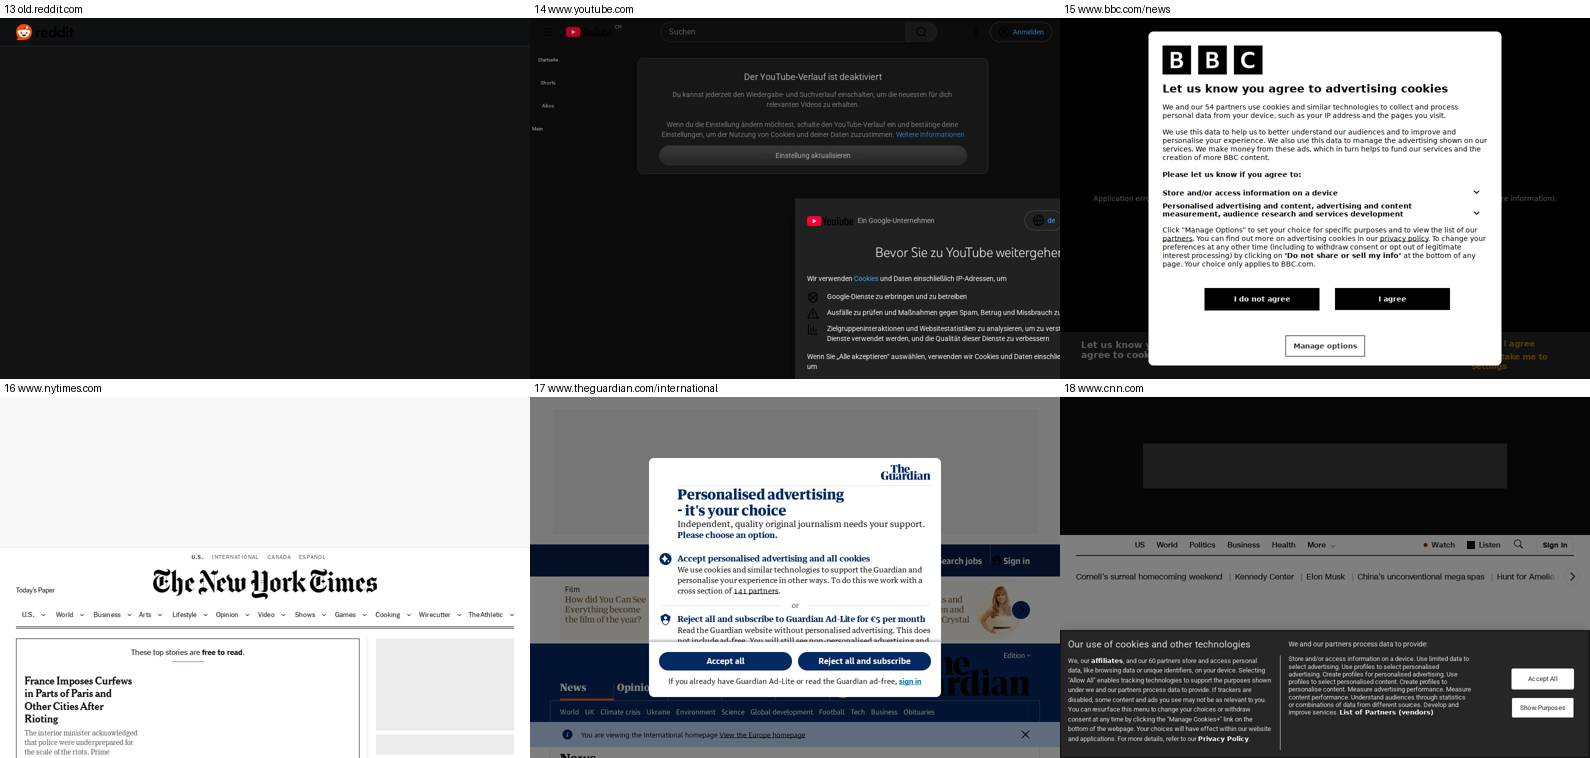
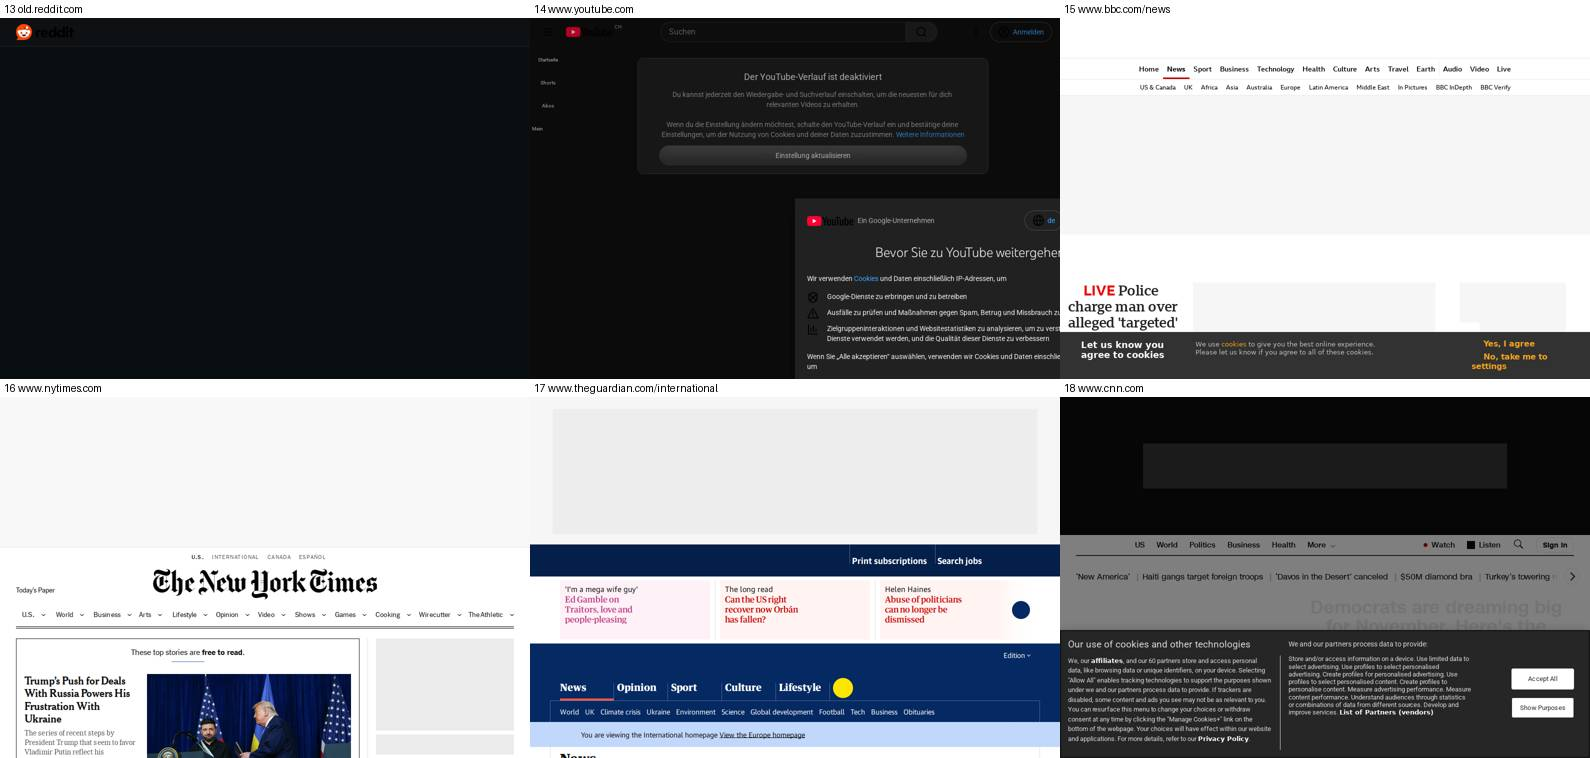
docs: second Servo compatibility run (38 of 50 sites work)
With webcrypto and the three experimental features on, 38 sites work
(was 33), 7 partly, 5 broken (was 11); no crashes. Startpage and Reddit
regressed, but the build from before the change shows them blank too, so
the sites changed between runs. Screenshots now show run 2.

Changed region(s): [[0.3082, 0.0, 1.0, 1.0], [0.0, 0.8799, 0.2465, 1.0], [0.8629, 0.7586, 0.9553, 0.7889]]

diff --git a/docs/servo-compat.md b/docs/servo-compat.md
@@ -1,15 +1,21 @@
-# Servo compatibility run
+# Servo compatibility runs
 
-First compatibility run of the experimental Servo web view
+Compatibility runs of the experimental Servo web view
 ([issue #65](https://github.com/freewright-dev/BrowseCraft/issues/65)): 50
 websites opened in BrowseCraft with Servo, looking at what the first screen
-shows. It measures where the slice stands; it is not a pass/fail gate by
-itself.
+shows. They measure where the slice stands; they are not a pass/fail gate by
+themselves.
+
+- **Run 1** (2026-10-19) used Servo's default build features and preferences.
+- **Run 2** (2026-10-20) added the fixes found by analysing run 1:
+  - Servo's `webcrypto` cargo feature, for `crypto.getRandomValues()`;
+  - the experimental preferences for `IntersectionObserver`,
+    `document.adoptedStyleSheets` and `Element.animate()`;
+  - `crypto.subtle` kept off (see [dependencies.md](dependencies.md)).
 
 ## Method
 
-- **Build:** BrowseCraft debug build with `--features servo` (Servo 0.6.0 LTS),
-  2026-10-19.
+- **Build:** BrowseCraft debug build with `--features servo` (Servo 0.6.0 LTS).
 - **Machine:** WSL2 Ubuntu 24.04 (WSLg display, Mesa software rendering),
   16 cores, 24 GB of memory.
 - **Window:** 1060×722 page area, dark theme.
@@ -24,123 +30,138 @@ itself.
     built without GStreamer, so video can't play.
   - Logged-in pages.
   - Release-build timing.
+- **Sites change from day to day.** A difference between runs can come from
+  the site rather than the browser (see "Changes between runs" below).
 - **Missing glyphs:** WSL has no fonts for some scripts (CJK, Devanagari), so
   a few lines show boxes. That is the test machine, not Servo.
 
 Rerun with [tools/servo-compat/run.sh](../tools/servo-compat/run.sh); the site
 list is [tools/servo-compat/sites.txt](../tools/servo-compat/sites.txt).
+`RUST_LOG=error` adds Servo's own errors, including uncaught page exceptions,
+to each site's log.
 
 ## Summary
 
-| | Sites |
-|---|---|
-| Works | 33 |
-| Partial | 6 |
-| Broken | 11 |
-| Crashed or hung the browser | 0 |
-| Reached "load complete" within 30 s | 47 (median 1.5 s, 90 % within 10 s, slowest 20.9 s) |
+| | Run 1 | Run 2 |
+|---|---|---|
+| Works | 33 | 38 |
+| Partial | 6 | 7 |
+| Broken | 11 | 5 |
+| Crashed or hung the browser | 0 | 0 |
+| Reached "load complete" within 30 s | 47 | 44 |
+| Median load time | 1.5 s | 1.3 s |
+| 90 % loaded within | 10 s | 4.8 s |
+| Slowest | 20.9 s | 11.5 s |
+
+Load time is when Servo reported the page complete, counted from Servo's
+start (debug build).
 
 Patterns:
 
-- **Cookie banners and consent dialogs work.** Those from Google, YouTube,
-  BBC, Guardian, Reuters, CNN, Instagram, X and Dropbox all render.
+- **Cookie banners and consent dialogs work** on almost every site that shows
+  one.
 - **Icons often show as solid squares.** This affects small icons on
   Wikipedia, SRF, MDN and crates.io, which suggests icons drawn with CSS
   masks or SVG are not supported yet.
-- **Most failures are large script-heavy apps.** GitHub repository pages,
-  BBC, Figma, Netflix, Spotify and Amazon report a client-side error or stay
-  blank.
-- **Bot checks block some sites.** Stack Overflow stays stuck at a Cloudflare
-  check. eBay may be refusing Servo's user agent rather than a missing
-  feature.
+- **Most of what still fails** is a site turning Servo away (eBay), a Servo
+  bug (PayPal), or a page that comes out blank without any script error
+  (Startpage, Reddit, Microsoft).
 
-## Why sites fail
+## Why sites failed in run 1
 
 The broken and partial sites were opened again with
 `BROWSECRAFT_SERVO_TRACE=1 RUST_LOG=error`. That logs page console errors,
 uncaught exceptions and Servo's own errors. The pages themselves download and
-parse within 0.4–3 s, so networking and HTML parsing are not the problem. What
-fails is the page's JavaScript, mostly on a web feature that is missing in
-this build.
+parse within 0.4–3 s, so networking and HTML parsing were not the problem.
+What failed was the page's JavaScript, mostly on a web feature that was
+missing in that build.
 
-| Cause | Sites | Error seen | Fix |
+| Cause | Sites | Error seen | Status in run 2 |
 |---|---|---|---|
-| `crypto.getRandomValues()` missing | BBC, Amazon, Booking, Spotify, IMDb, Figma, Microsoft | `crypto.getRandomValues() not supported` / `crypto is not defined` | Ours: Servo has Web Crypto behind its `webcrypto` cargo feature, which is not among its defaults and is not enabled here |
-| `IntersectionObserver` missing | Netflix, GitHub repository page | `IntersectionObserver is not defined` | Ours: Servo has it behind the experimental preference `dom_intersection_observer_enabled` (off by default) |
-| `document.adoptedStyleSheets` missing | archive.org, GitHub repository page | `e.adoptedStyleSheets is undefined` | Ours: preference `dom_adoptedstylesheet_enabled` (off by default) |
-| `Element.animate()` missing | YouTube | `v.hostElement.animate is not a function` | Ours: preference `dom_web_animations_enabled` (off by default) |
-| JavaScript error during start-up | GitHub repository page | `can't access lexical declaration 'p' before initialization` | Unclear; recheck once the features above are on, otherwise report upstream |
-| Servo panics | PayPal | `internal error: entered unreachable code: Removed @font-face that was not previously present` (`servo-script-0.6.0/dom/css/fontfaceset.rs:184`) | Upstream bug. The browser keeps running, but the page never finishes and `notify_crashed` is not called |
-| The site turns away unfamiliar browsers | Stack Overflow (Cloudflare bot check), old.reddit (redirect to `/login/?reason=lor2`), eBay (error page) | none | Not a rendering problem; possibly helped by a different user-agent string |
-| Layout or drawing differences, no script error | rust-lang.org, nodejs.org | none | Upstream rendering gaps |
+| `crypto.getRandomValues()` missing | BBC, Amazon, Booking, Spotify, IMDb, Figma, Microsoft | `crypto.getRandomValues() not supported` / `crypto is not defined` | Fixed by Servo's `webcrypto` feature. BBC, Amazon, Booking and IMDb work; Spotify and Figma are partial. IMDb still logs `Q.subtle is undefined`, because `crypto.subtle` stays off |
+| `IntersectionObserver` missing | Netflix, GitHub repository page | `IntersectionObserver is not defined` | Fixed by `dom_intersection_observer_enabled`; both work |
+| `document.adoptedStyleSheets` missing | archive.org, GitHub repository page | `e.adoptedStyleSheets is undefined` | Fixed by `dom_adoptedstylesheet_enabled`; archive.org works |
+| `Element.animate()` missing | YouTube | `v.hostElement.animate is not a function` | Error gone with `dom_web_animations_enabled`; YouTube still shows only its consent page |
+| JavaScript error during start-up | GitHub repository page | `can't access lexical declaration 'p' before initialization` | Gone; the page works |
+| Servo panics | PayPal | `internal error: entered unreachable code: Removed @font-face that was not previously present` (`servo-script-0.6.0/dom/css/fontfaceset.rs:184`) | Still broken; an upstream bug. The browser keeps running, but the page never finishes and `notify_crashed` is not called |
+| The site turns away unfamiliar browsers | Stack Overflow (Cloudflare bot check), old.reddit (redirect to `/login/?reason=lor2`), eBay (error page) | none | Stack Overflow passes the check in run 2 and works; old.reddit and eBay are unchanged |
+| Layout or drawing differences, no script error | rust-lang.org, nodejs.org | none | Unchanged; upstream rendering gaps |
 
-Next step: build with Servo's `webcrypto` feature and enable the three
-preferences above (Servo's own browser, servoshell, turns these on with its
-experimental-features switch), then repeat the run for the sites listed here.
-Experimental features are less tested; they would only apply to this opt-in
-Linux build.
+## Changes between runs
+
+Four sites did worse in run 2: Startpage and Reddit (blank, dark), Notion
+(partial) and Microsoft (blank). None of them logged a script error.
+
+For Startpage and Reddit, each new setting was turned off on its own and
+tested again, and the site still came out blank every time:
+
+- Web Animations;
+- `IntersectionObserver`;
+- `adoptedStyleSheets`;
+- `crypto.subtle`, tried switched on.
+
+The build from before any of these changes (commit `2b6cdb6`) now shows them
+blank too, so the change comes from the sites between the two runs, not from
+the new settings. Notion and Microsoft have not been isolated yet.
 
 ## Results
 
-Load time is when Servo reported the page complete, counted from Servo's
-start (debug build). "–" means not within 30 s.
-
-| # | Site | Result | Load (s) | Notes |
-|---|---|---|---|---|
-| 1 | example.com | Works | 0.66 | |
-| 2 | www.wikipedia.org | Works | 0.91 | |
-| 3 | en.wikipedia.org/wiki/Rust_(programming_language) | Works | 4.99 | Small icons render as squares |
-| 4 | github.com | Works | – | Logo and hero artwork missing; never reported complete |
-| 5 | github.com/servo/servo | Broken | 2.25 | "Unable to load page" |
-| 6 | servo.org | Works | 0.75 | |
-| 7 | duckduckgo.com | Works | 0.90 | |
-| 8 | www.startpage.com | Works | 2.63 | |
-| 9 | www.google.com | Works | 1.19 | Consent page |
-| 10 | www.bing.com | Works | 1.93 | |
-| 11 | news.ycombinator.com | Works | 1.28 | |
-| 12 | www.reddit.com | Works | 1.94 | |
-| 13 | old.reddit.com | Partial | 0.80 | Header only, body blank |
-| 14 | www.youtube.com | Partial | 9.98 | Consent dialog and page frame; no video grid |
-| 15 | www.bbc.com/news | Broken | 1.50 | Consent dialog over "Application error: a client-side exception" |
-| 16 | www.nytimes.com | Works | 10.92 | Empty ad slot at the top |
-| 17 | www.theguardian.com/international | Works | 5.89 | Consent dialog |
-| 18 | www.cnn.com | Works | 3.75 | Consent dialog |
-| 19 | www.reuters.com | Works | 3.00 | Consent dialog |
-| 20 | www.srf.ch | Works | 2.28 | Small icons render as squares |
-| 21 | www.admin.ch | Works | 3.43 | |
-| 22 | www.amazon.com | Broken | 0.43 | Blank page |
-| 23 | www.ebay.com | Broken | 0.78 | eBay error page |
-| 24 | www.booking.com | Broken | 20.89 | Blank page |
-| 25 | stackoverflow.com/questions | Broken | 11.20 | Stuck at Cloudflare's bot check |
-| 26 | developer.mozilla.org/en-US/ | Works | 0.75 | Small icons render as squares |
-| 27 | docs.rs | Works | 0.94 | |
-| 28 | crates.io | Works | 0.79 | Small icons render as squares |
-| 29 | www.rust-lang.org | Partial | 0.80 | Hero text barely visible |
-| 30 | doc.rust-lang.org/book/ | Works | 0.76 | |
-| 31 | www.python.org | Works | 0.54 | |
-| 32 | nodejs.org | Partial | 1.00 | Heading drawn on a white box |
-| 33 | www.w3.org | Works | 0.44 | |
-| 34 | www.mozilla.org | Works | 1.36 | Logo artwork glitch |
-| 35 | www.apple.com | Works | 1.11 | |
-| 36 | www.microsoft.com | Partial | 14.66 | Header and chat widget only, body blank |
-| 37 | www.cloudflare.com | Works | 4.20 | |
-| 38 | x.com | Works | 1.04 | Login page and consent banner |
-| 39 | www.instagram.com | Works | 6.11 | Consent dialog |
-| 40 | www.linkedin.com | Works | 1.95 | |
-| 41 | www.twitch.tv | Works | 11.57 | Player area black (no media support in this build) |
-| 42 | www.netflix.com | Broken | 2.96 | Netflix error page (NSES-UHX) |
-| 43 | open.spotify.com | Broken | 1.47 | "Something went wrong" |
-| 44 | www.openstreetmap.org | Works | 0.87 | Map tiles load |
-| 45 | archive.org | Partial | 3.54 | Donation banner and header, body blank |
-| 46 | www.imdb.com | Broken | 0.61 | Blank page |
-| 47 | www.paypal.com | Broken | – | Blank page; never reported complete |
-| 48 | www.dropbox.com | Works | 3.49 | Consent banner |
-| 49 | www.notion.so | Works | – | Some placeholders; never reported complete |
-| 50 | www.figma.com | Broken | 1.60 | "Application error: a client-side exception" |
+| # | Site | Run 1 | Run 2 | Load (s), run 2 | Notes (run 2) |
+|---|---|---|---|---|---|
+| 1 | example.com | Works | Works | 0.58 | |
+| 2 | www.wikipedia.org | Works | Works | 0.88 | |
+| 3 | en.wikipedia.org/wiki/Rust_(programming_language) | Works | Works | 4.64 | Small icons render as squares |
+| 4 | github.com | Works | Works | – | Never reported complete |
+| 5 | github.com/servo/servo | Broken | **Works** | 2.41 | |
+| 6 | servo.org | Works | Works | 0.81 | |
+| 7 | duckduckgo.com | Works | Works | 0.77 | |
+| 8 | www.startpage.com | Works | **Broken** | – | Blank; also blank with the run 1 build (site change) |
+| 9 | www.google.com | Works | Works | 1.30 | Consent page |
+| 10 | www.bing.com | Works | Works | 1.86 | |
+| 11 | news.ycombinator.com | Works | Works | 1.29 | |
+| 12 | www.reddit.com | Works | **Broken** | 0.30 | Blank; also blank with the run 1 build (site change) |
+| 13 | old.reddit.com | Partial | Partial | 0.98 | Redirected to a login page |
+| 14 | www.youtube.com | Partial | Partial | 5.86 | Consent dialog and page frame only |
+| 15 | www.bbc.com/news | Broken | **Works** | 1.49 | Some image slots still empty |
+| 16 | www.nytimes.com | Works | Works | 9.48 | Empty ad slot at the top |
+| 17 | www.theguardian.com/international | Works | Works | – | Never reported complete |
+| 18 | www.cnn.com | Works | Works | 4.45 | Consent dialog |
+| 19 | www.reuters.com | Works | Works | 2.41 | Consent dialog |
+| 20 | www.srf.ch | Works | Works | 3.76 | Small icons render as squares |
+| 21 | www.admin.ch | Works | Works | 4.65 | |
+| 22 | www.amazon.com | Broken | **Works** | 2.73 | |
+| 23 | www.ebay.com | Broken | Broken | 0.50 | eBay error page |
+| 24 | www.booking.com | Broken | **Works** | 3.63 | Sign-in prompt over the page |
+| 25 | stackoverflow.com/questions | Broken | **Works** | 4.90 | Passes the Cloudflare check |
+| 26 | developer.mozilla.org/en-US/ | Works | Works | 0.71 | Small icons render as squares |
+| 27 | docs.rs | Works | Works | 0.75 | |
+| 28 | crates.io | Works | Works | 1.11 | Small icons render as squares |
+| 29 | www.rust-lang.org | Partial | Partial | 0.73 | Hero text barely visible |
+| 30 | doc.rust-lang.org/book/ | Works | Works | 0.43 | |
+| 31 | www.python.org | Works | Works | 0.49 | |
+| 32 | nodejs.org | Partial | Partial | 0.94 | Heading drawn on a white box |
+| 33 | www.w3.org | Works | Works | 0.36 | |
+| 34 | www.mozilla.org | Works | Works | 1.38 | Logo artwork glitch |
+| 35 | www.apple.com | Works | Works | 0.84 | |
+| 36 | www.microsoft.com | Partial | **Broken** | 0.65 | Blank; its consent script returns 403 |
+| 37 | www.cloudflare.com | Works | Works | – | Never reported complete |
+| 38 | x.com | Works | Works | 2.35 | Login page and consent banner |
+| 39 | www.instagram.com | Works | Works | 6.09 | Consent dialog |
+| 40 | www.linkedin.com | Works | Works | 0.95 | |
+| 41 | www.twitch.tv | Works | Works | 11.48 | Player area black (no media support in this build) |
+| 42 | www.netflix.com | Broken | **Works** | 2.48 | Consent banner and sign-up page |
+| 43 | open.spotify.com | Broken | **Partial** | 1.31 | App frame with placeholders |
+| 44 | www.openstreetmap.org | Works | Works | 0.88 | Map tiles load |
+| 45 | archive.org | Partial | **Works** | 1.84 | |
+| 46 | www.imdb.com | Broken | **Works** | 4.83 | |
+| 47 | www.paypal.com | Broken | Broken | – | Blank; Servo panics (upstream bug) |
+| 48 | www.dropbox.com | Works | Works | 3.82 | |
+| 49 | www.notion.so | Works | **Partial** | – | Hero section missing; not yet isolated |
+| 50 | www.figma.com | Broken | **Partial** | 2.19 | Cookie dialog, body blank |
 
 ## Screenshots
 
-The first screen of each site, reduced to half size:
+The first screen of each site in run 2, reduced to half size:
 
 ![Sites 1–6](servo-compat/sites-01-06.jpg)
 ![Sites 7–12](servo-compat/sites-07-12.jpg)

diff --git a/README.md b/README.md
@@ -49,9 +49,9 @@ rather than build a second general-purpose DOM, layout and JavaScript stack.
 engine (see [docs/development.md](docs/development.md#servo-on-linux-experimental)).
 It is off by default, not part of release builds, and not yet secure for
 arbitrary browsing: Servo runs in the browser process, and the password
-manager's page script and element hiding are not wired up yet. In the first
-[compatibility run](docs/servo-compat.md), 33 of 50 popular sites rendered
-properly, 6 partly and 11 not, with no crashes.
+manager's page script and element hiding are not wired up yet. In the latest
+[compatibility run](docs/servo-compat.md), 38 of 50 popular sites rendered
+properly, 7 partly and 5 not, with no crashes.
 
 Existing native web views stay in place until the integration passes explicit
 compatibility, packaging and security gates. Windows renderer containment is
